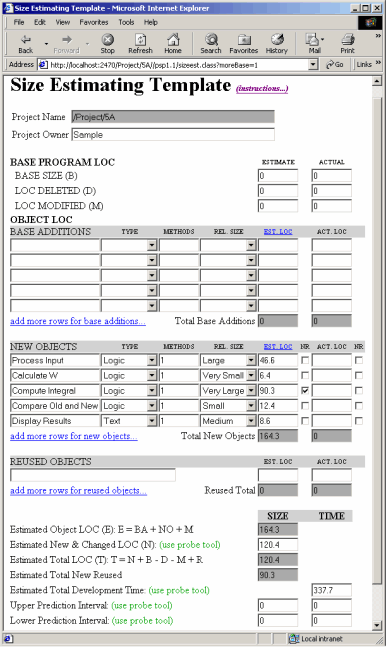
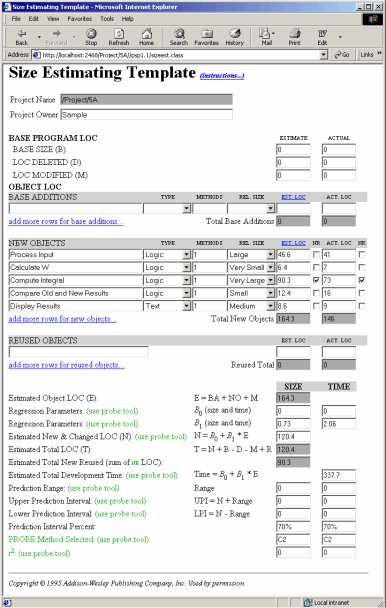
New screen shots of the new Size Estimating Template form.
git-svn-id: https://svn.code.sf.net/p/processdash/code/trunk@605 560cad82-bde2-470f-af40-e4e1f8d6548a

diff --git a/pspdash/Templates/help/Topics/Overview/QSPlanningTheProject.html b/pspdash/Templates/help/Topics/Overview/QSPlanningTheProject.html
@@ -70,7 +70,7 @@ red.  That makes sense, since method A requires historical data for estimated
 object LOC, which we don't have by the time we do Program 5A. We can quickly 
 check the other PROBE methods just by choosing a method in the pulldown.</p>
 
-<P>When we try method B, the numbers don't look much better, so we're force 
+<P>When we try method B, the numbers don't look much better, so we're forced
 to use method C.  The dashboard provides two method C's for size: C1 and C2.  
 These are very analogous to the different C methods that are available in the 
 standard PSP estimating procedure for Time estimation.  C1 needs to have 
@@ -81,13 +81,19 @@ use C2.</p>
 method.  It has already set <i>B</i><sub>0</sub> to 0.0, and has done the 
 calculation of <i>B</i><sub>1</sub> for you.</p>
 
-<P>Moving forward with method C1, we need to enter our estimated object LOC 
+<P>Moving forward with method C2, we need to enter our estimated object LOC 
 from the Size Estimating Template into the PROBE tool.  Entering 164.3 into 
 the estimate blank gives us the following screen.</p>
 
 <p><center><img src="../../Images/QSProbeAfter.png"></center></p>
 
-<P>Our projected New &amp; Changed LOC for this project should be 120.39.
+<P>Our projected New &amp; Changed LOC for this project should be 120.39.  We 
+can also record the values of <i>B</i><sub>0</sub> and <i>B</i><sub>1</sub>, 
+the Prediction Interval percent (70%), and the method chosen (C2) on the Size 
+Estimating Template form under the Size heading.  The other values requested 
+on the form (prediction range, UPI, LPI, and r<sup>2</sup>) don't apply to 
+method C2 since they are by-products of a regression fit.  We can leave them 
+as they are.</p>
 
 <P>We can now use the PROBE tool to attempt a correlation between Estimated New 
 &amp; Changed LOC and total development time.  Again, we can investigate the 
@@ -98,11 +104,12 @@ object LOC to use as a basis.</p>
 
 <p><center><img src="../../Images/QSProbeAfterTime.png"></center></p>
 
-<P>Our projected Time estimated for this project should be 337.69 minutes.</p> 
+<P>Our projected Time estimated for this project should be 337.69 minutes.  
+We record this value as well as the other values as before 
+(<i>B</i><sub>0</sub>, <i>B</i><sub>1</sub>, prediction interval, and probe 
+method).  And again, we can skip the linear regression parameters.</p> 
 
-<P>Both of these numbers get placed on the Size Estimating Template.  Since 
-we didn't do a linear regression, we can skip the UPI and LPI entries.  After 
-our planning efforts on this form it looks like the following:</p>
+<p>After our planning efforts on this form it looks like the following:</p>
 
 <p><center><img src="../../Images/QSSizeEstimatingTemplateDone.png"></center></p>
 

diff --git a/pspdash/Templates/help/Topics/Planning/UsingSizeEstimatingTemplate.html b/pspdash/Templates/help/Topics/Planning/UsingSizeEstimatingTemplate.html
@@ -123,14 +123,20 @@ href="UsingProbeTool.html">PROBE tool</a> help for situations when it is not
 possible) to get an estimate for new &amp; changed LOC and/or time based on 
 your previously recorded project data.  Once you have investigated the 
 relationships among your process data, you should enter the estimates back on 
-this form.  If you were able to use a linear regression method, enter the 
-upper and lower prediction intervals as well.  If you were not able to use 
-linear regression, these two entries should be skipped.</p>
+this form, as well as the various other measures that come about as a result 
+of the estimation (<i>B</i><sub>0</sub>, <i>B</i><sub>1</sub>, UPI, LPI, 
+prediction range, r<sup>2</sup>, probe method selected).  If you were not 
+able to use a linear regression method, the regression parameters should be 
+skipped.</p> 
 
 <P>That's all the data that has to be entered on this form.  The dashboard 
 calculates as much of the data for you as possible.  The numbers entered and 
 calculated on this form will automatically appear on the Project Plan Summary 
 form.</p>
+
+<P>Once you have the actual data for LOC, you should return to this form to 
+enter the actuals, rather than just entering totals on the Project Plan 
+Summary form.</p>
 
 <!-- DISCLAIMER -->
 
